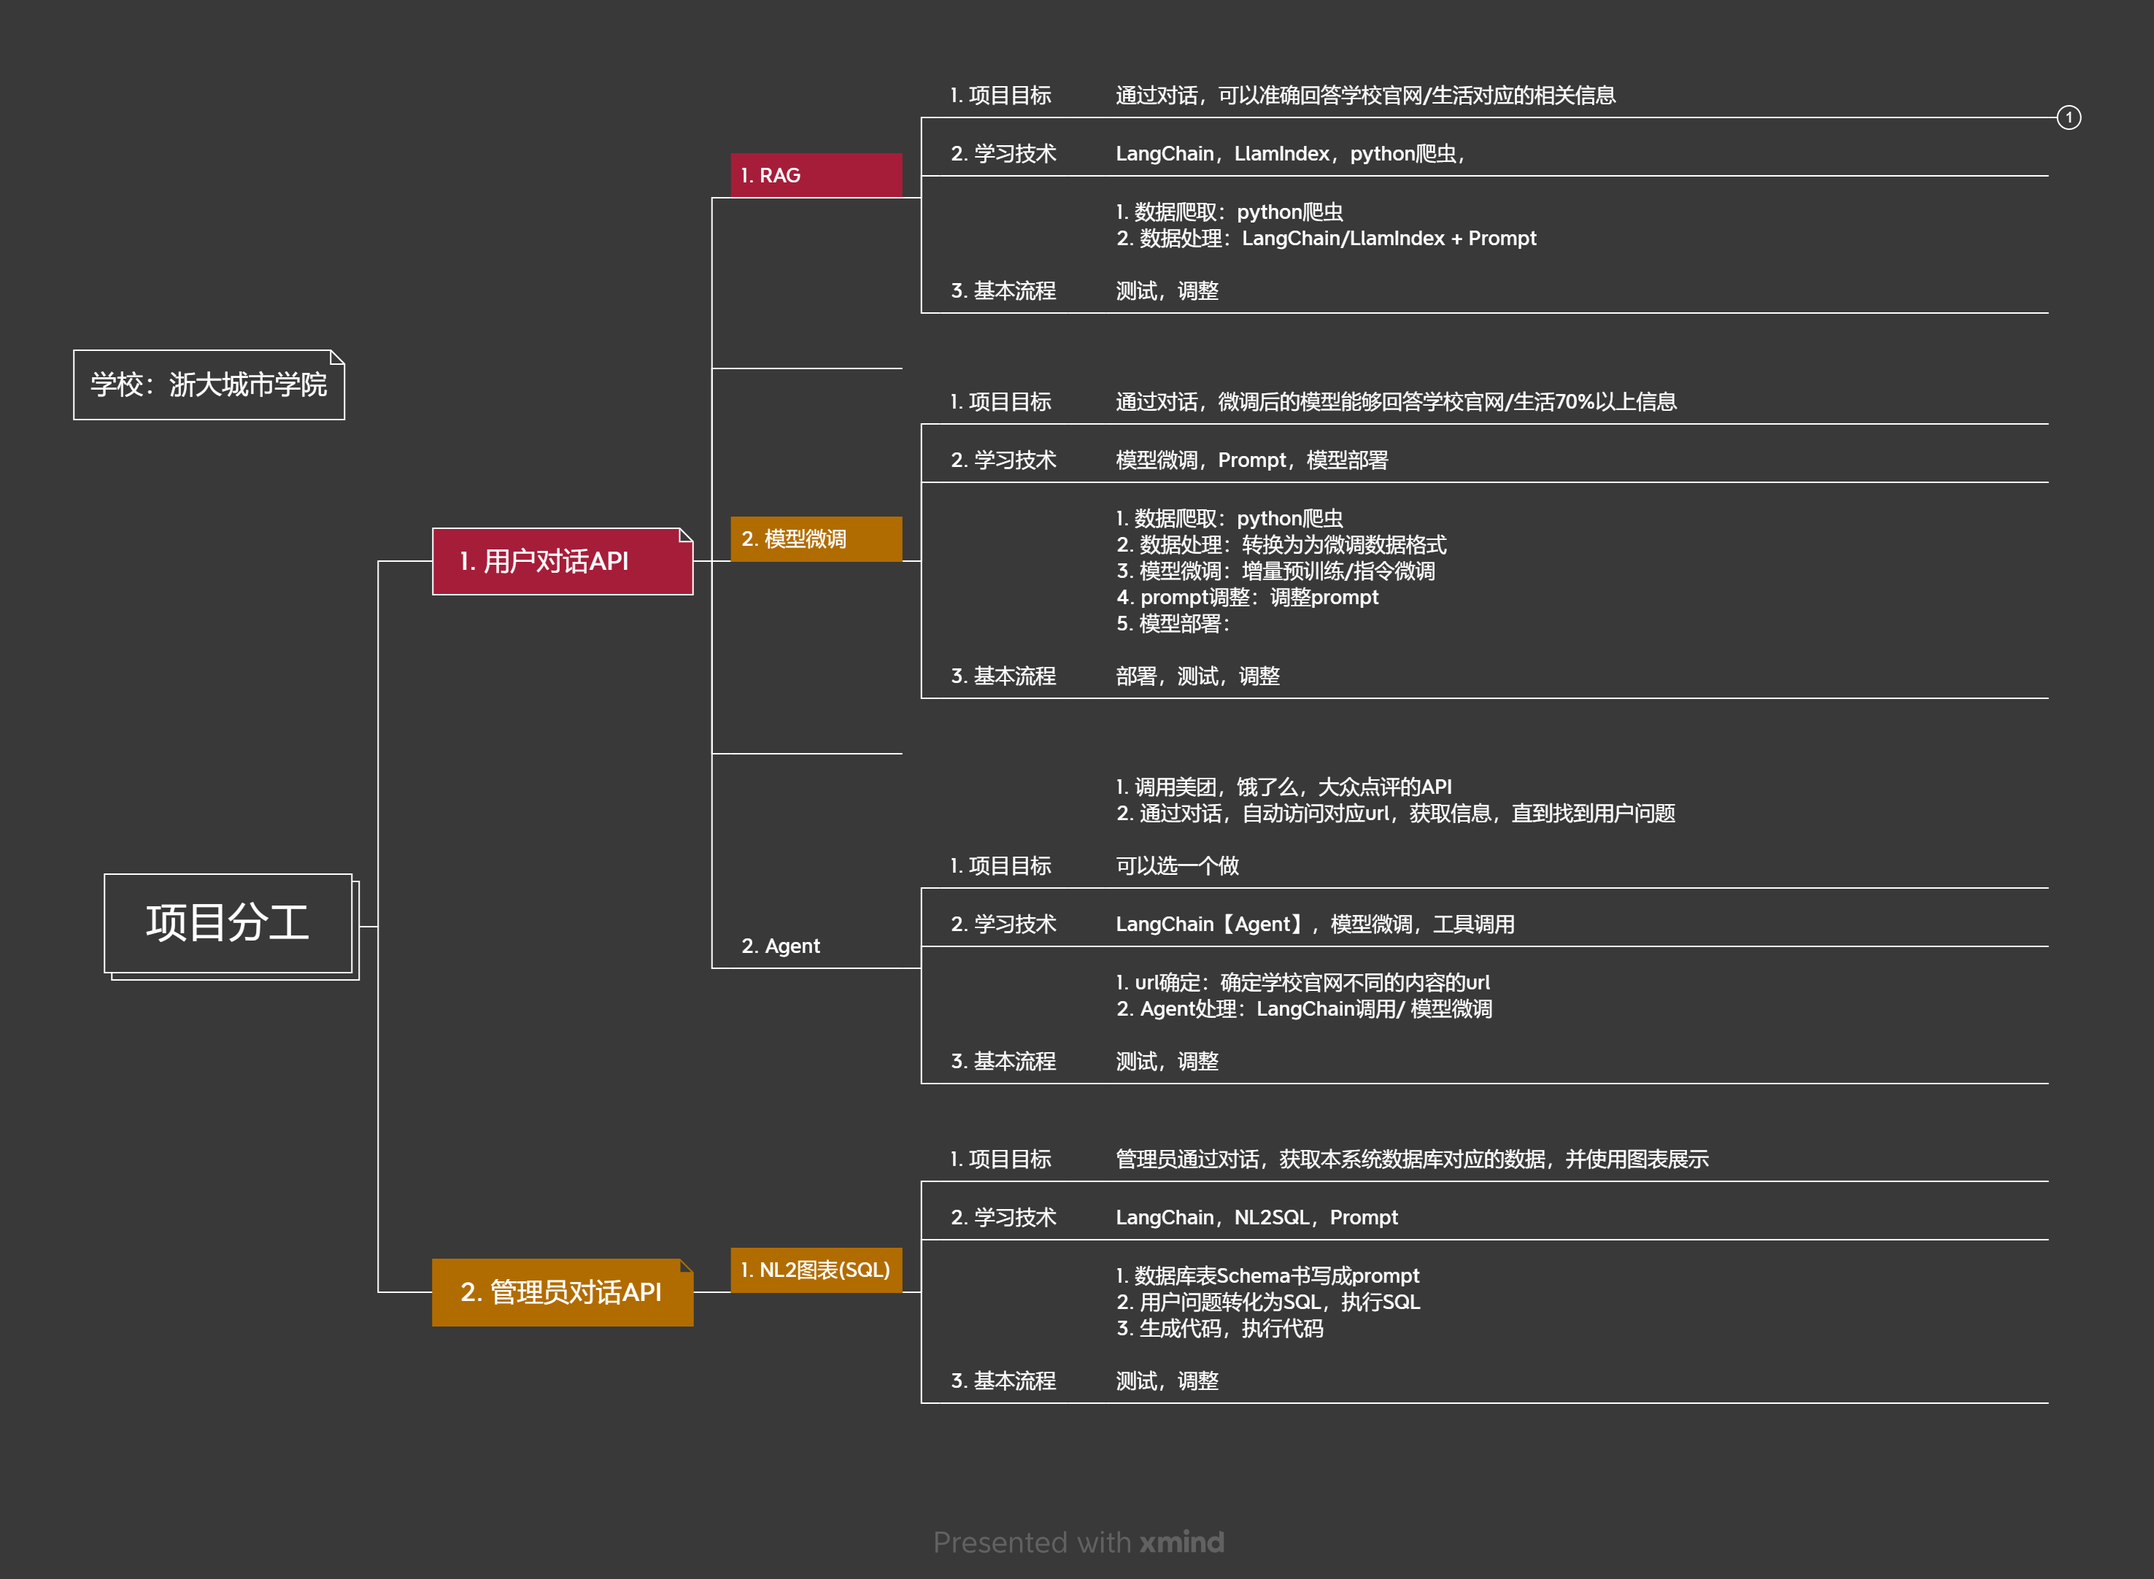
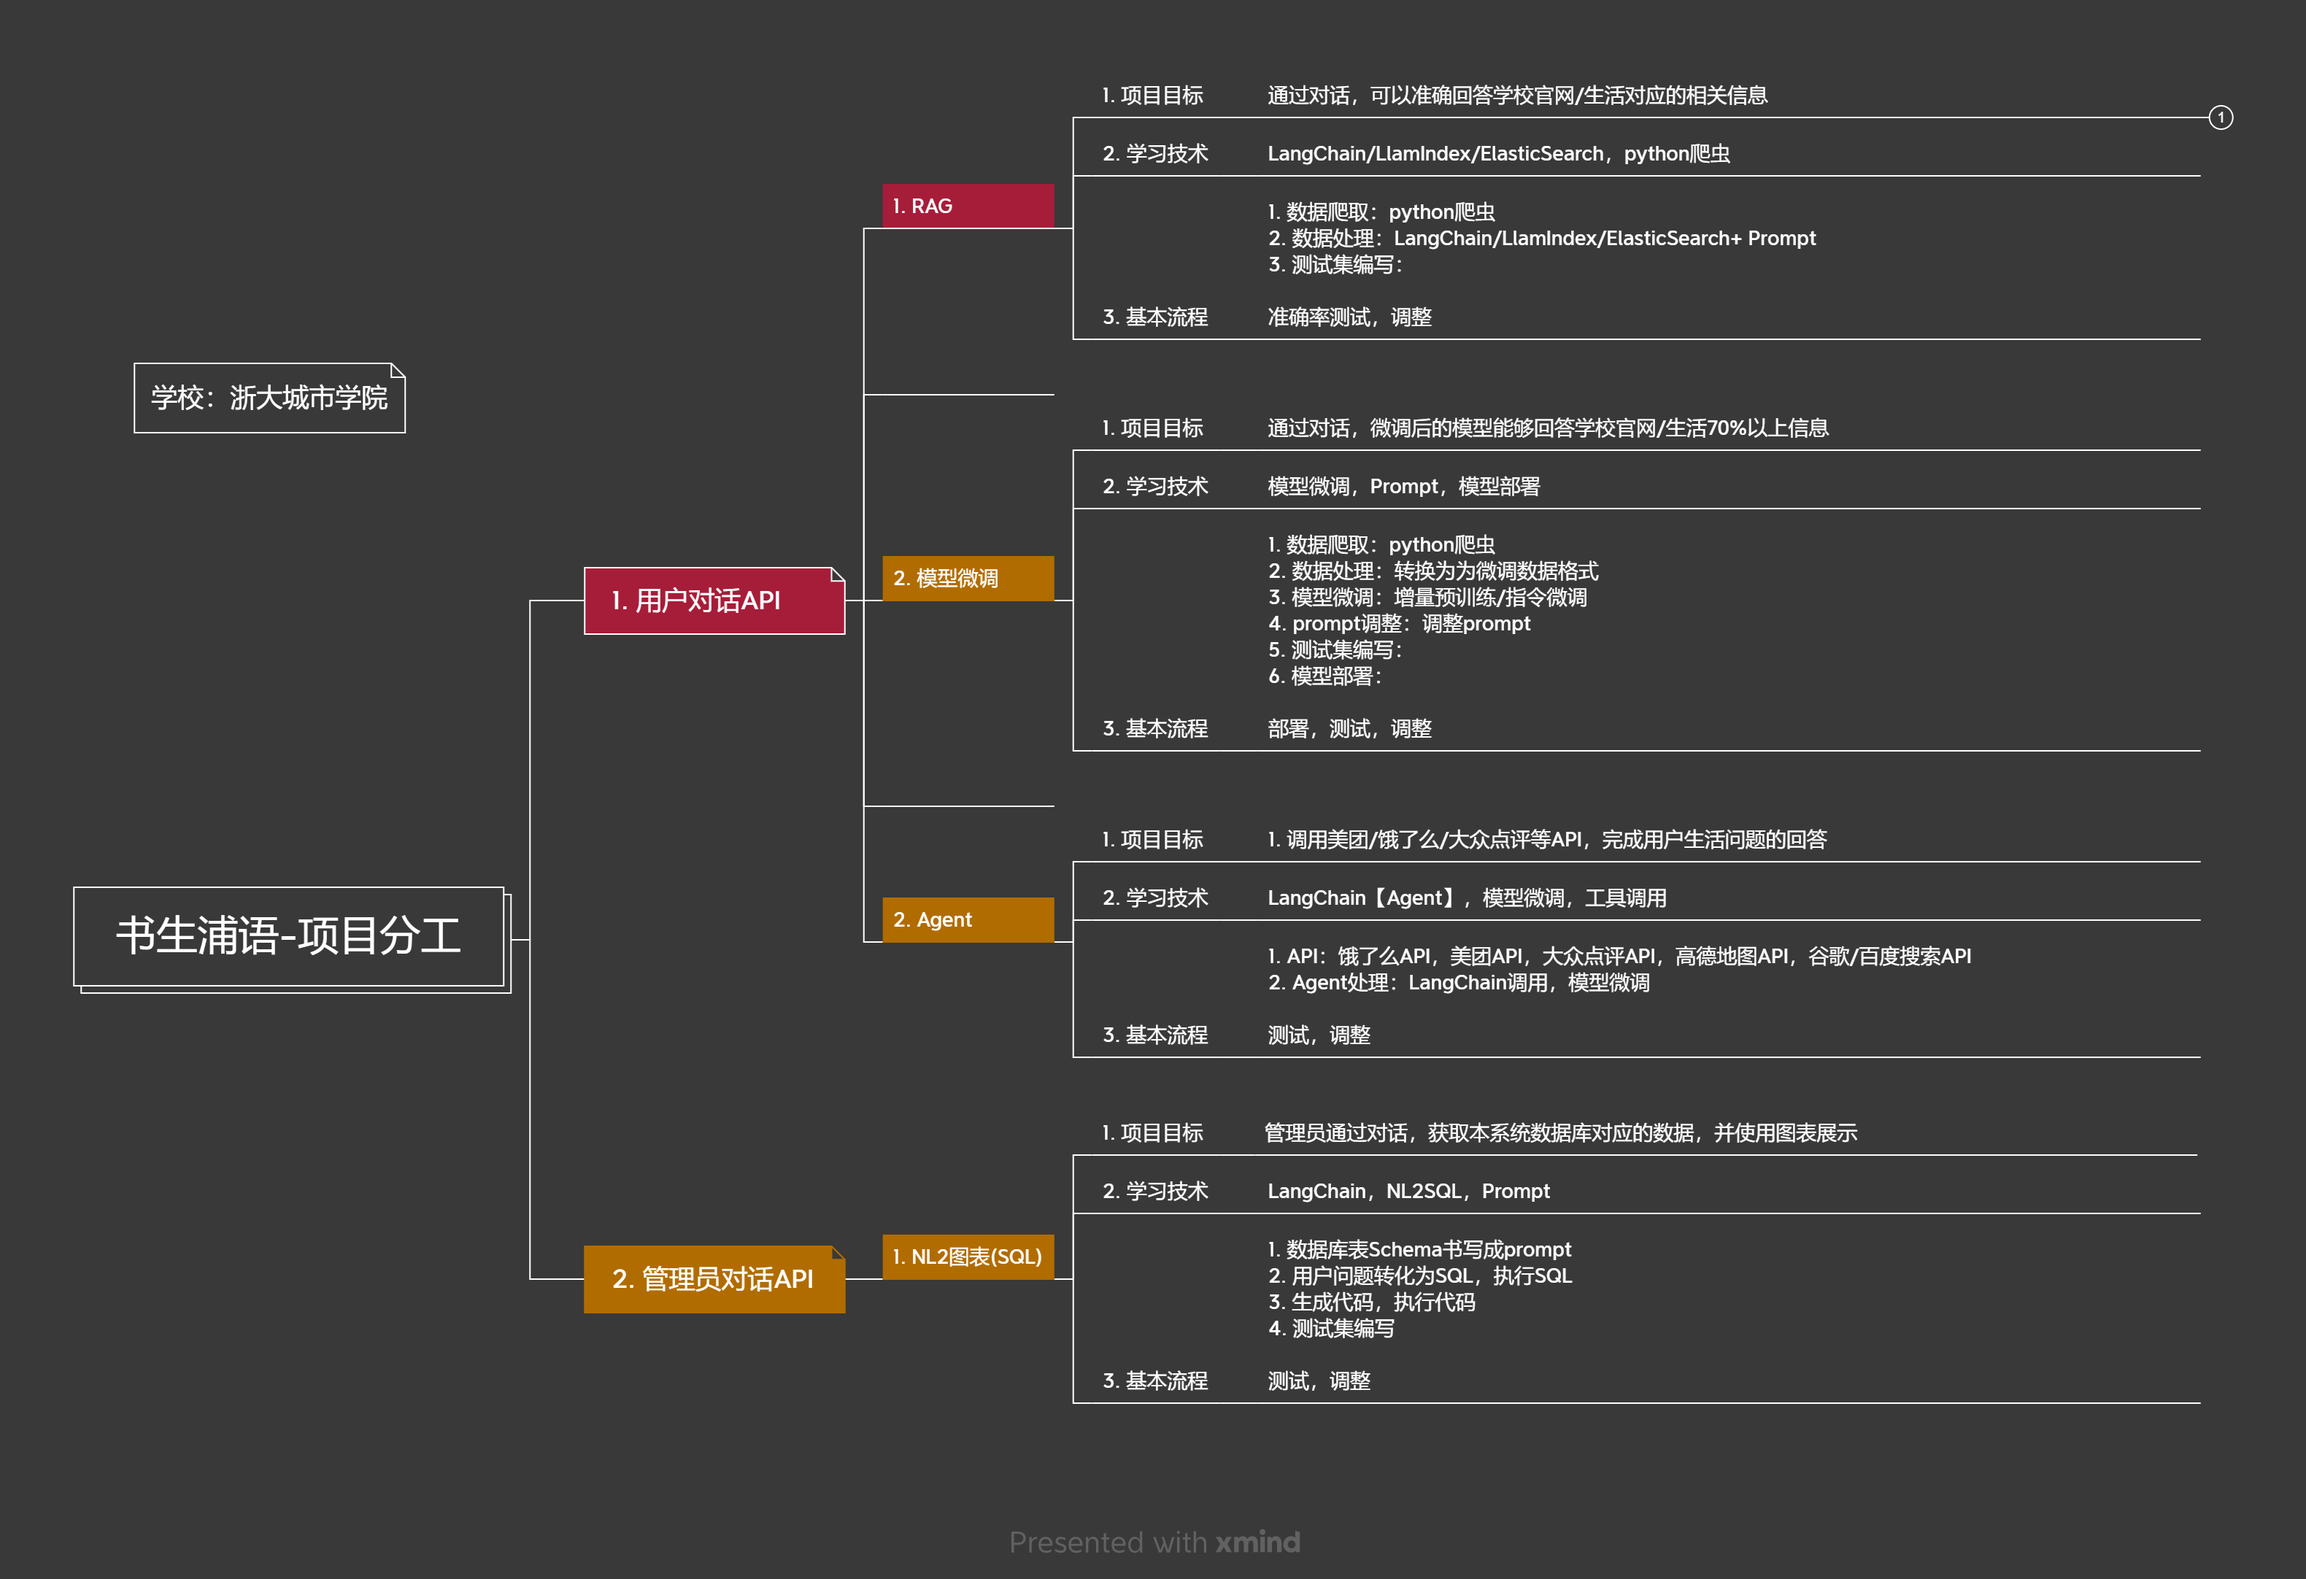
2024-03-22 更新书生浦语-项目分工图片

diff --git a/README.md b/README.md
@@ -1,7 +1,7 @@
 # Chat_HZCU
 ## 1. 现阶段情况：
 
-   1. 前后端系统已经完成，可以链接访问，可以直接点击**游客登录**：
+   1. 前后端系统已经完成，可以点击下方链接访问，可以直接点击**游客登录** 免注册登录：
 
       - 用户：http://106.12.19.123:8501/
 
@@ -48,7 +48,7 @@
 
 1. 系统：前端Streamlit（后期换Vue/React），后端SSM+SpringBoot
 
-2. 模型：LangChain，ElasticsSearch，增量预训练/指令微调，Agent，模型部署
+2. 模型：LangChain，ElasticSearch，增量预训练/指令微调，Agent，模型部署
 
    
 
